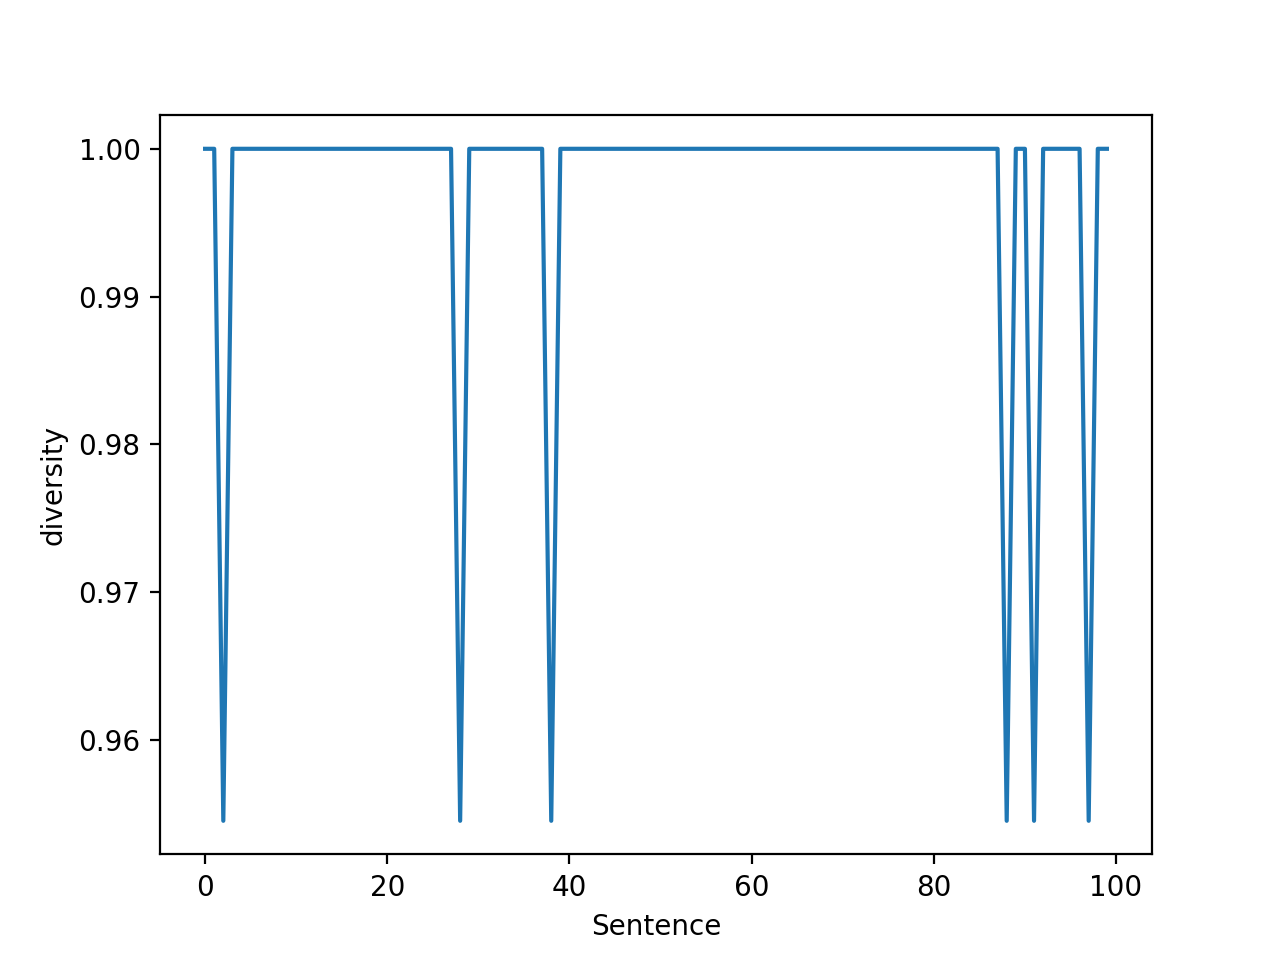
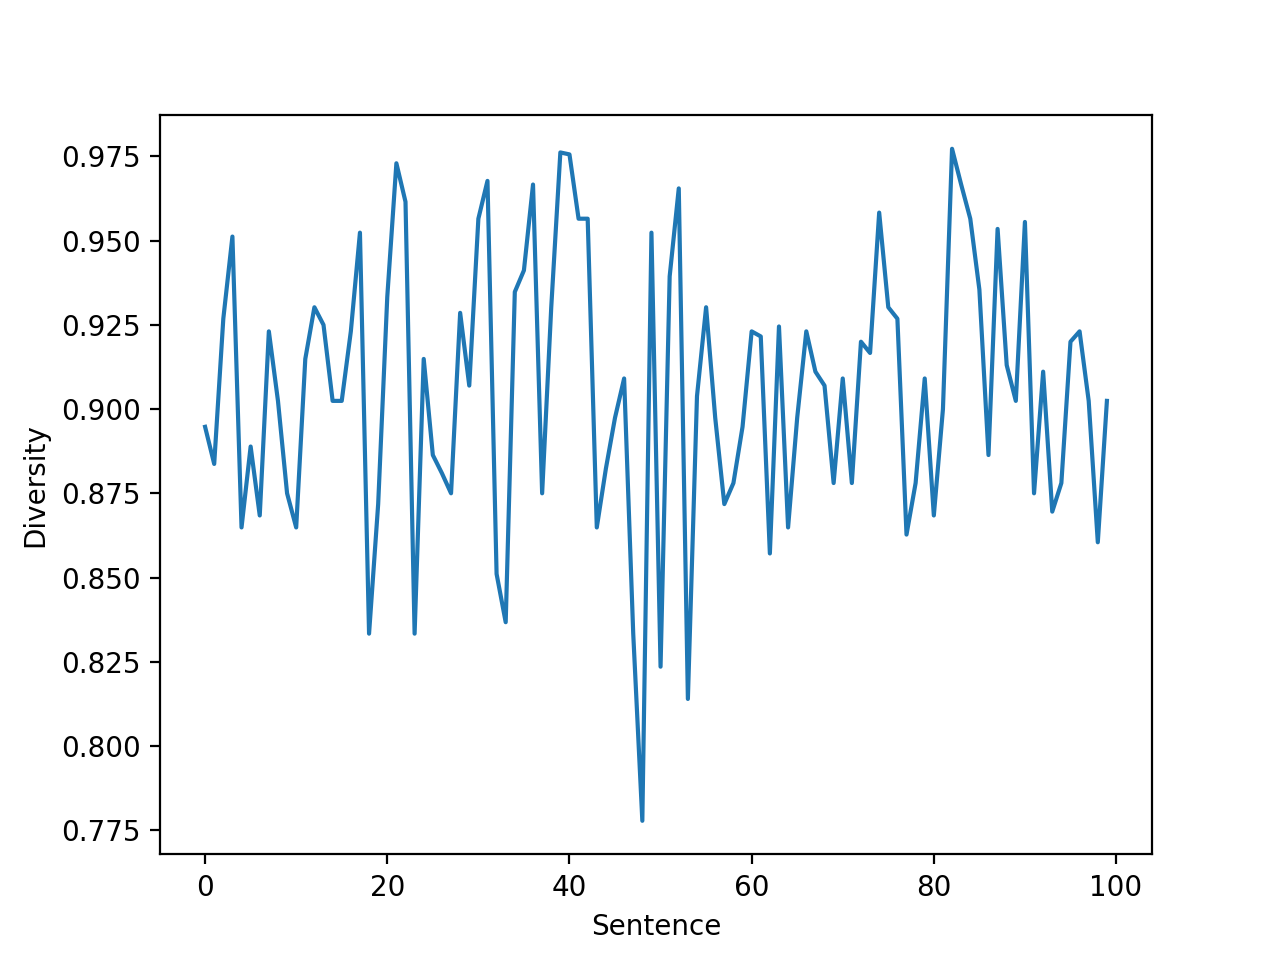
Added plots for diversity and novelty, fixed defn of metrics

diff --git a/plotting.py b/plotting.py
@@ -1,0 +1,17 @@
+novs = [0.9761904761904762, 0.9111111111111111, 0.9534883720930233, 0.926829268292683, 0.9512195121951219, 0.9375, 0.9, 0.9512195121951219, 0.8780487804878049, 0.85, 0.925, 0.9166666666666666, 0.9555555555555556, 0.9523809523809523, 0.9302325581395349, 0.9302325581395349, 0.9512195121951219, 0.9772727272727273, 0.925, 0.9534883720930233, 0.9347826086956522, 0.9736842105263158, 0.962962962962963, 0.8974358974358975, 0.9166666666666666, 0.9361702127659575, 0.8837209302325582, 0.9047619047619048, 0.9302325581395349, 0.9333333333333333, 0.9583333333333334, 0.9, 0.9, 0.9259259259259259, 0.9583333333333334, 0.9428571428571428, 0.967741935483871, 0.8780487804878049, 0.9318181818181819, 0.9523809523809523, 0.925, 0.9583333333333334, 0.9583333333333334, 0.868421052631579, 0.9259259259259259, 0.9523809523809523, 0.9574468085106383, 0.8378378378378378, 0.875, 0.9285714285714286, 0.9661016949152542, 0.9090909090909091, 0.9310344827586207,
+        0.9166666666666666, 0.9642857142857143, 0.9318181818181819, 0.9523809523809523, 0.9024390243902439, 0.9555555555555556, 0.9512195121951219, 0.8823529411764706, 0.9230769230769231, 0.9574468085106383, 0.9259259259259259, 0.868421052631579, 0.926829268292683, 0.925, 0.9361702127659575, 0.9090909090909091, 0.9782608695652174, 0.9347826086956522, 0.9555555555555556, 0.9622641509433962, 0.9607843137254902, 0.9591836734693877, 0.9782608695652174, 0.9285714285714286, 0.9074074074074074, 0.9069767441860466, 0.9117647058823529, 0.9523809523809523, 0.9285714285714286, 0.9545454545454546, 0.967741935483871, 0.9583333333333334, 0.9032258064516129, 0.8888888888888888, 0.9302325581395349, 0.8913043478260869, 0.9545454545454546, 0.9565217391304348, 0.9302325581395349, 0.9583333333333334, 0.8958333333333334, 0.9069767441860466, 0.9622641509433962, 0.9512195121951219, 0.9302325581395349, 0.8888888888888888, 0.8780487804878049]
+
+divs = [0.8947368421052632, 0.8837209302325582, 0.926829268292683, 0.9512195121951219, 0.8648648648648649, 0.8888888888888888, 0.868421052631579, 0.9230769230769231, 0.9024390243902439, 0.875, 0.8648648648648649, 0.9148936170212766, 0.9302325581395349, 0.925, 0.9024390243902439, 0.9024390243902439, 0.9230769230769231, 0.9523809523809523, 0.8333333333333334, 0.8717948717948718, 0.9333333333333333, 0.972972972972973, 0.9615384615384616, 0.8333333333333334, 0.9148936170212766, 0.8863636363636364, 0.8809523809523809, 0.875, 0.9285714285714286, 0.9069767441860466, 0.9565217391304348, 0.967741935483871, 0.851063829787234, 0.8367346938775511, 0.9347826086956522, 0.9411764705882353, 0.9666666666666667, 0.875, 0.9302325581395349, 0.9761904761904762, 0.975609756097561, 0.9565217391304348, 0.9565217391304348, 0.8648648648648649, 0.8823529411764706, 0.8974358974358975, 0.9090909090909091, 0.8333333333333334, 0.7777777777777778, 0.9523809523809523,
+        0.8235294117647058, 0.9393939393939394, 0.9655172413793104, 0.813953488372093, 0.9038461538461539, 0.9302325581395349, 0.8974358974358975, 0.8717948717948718, 0.8780487804878049, 0.8947368421052632, 0.9230769230769231, 0.9215686274509804, 0.8571428571428572, 0.9245283018867925, 0.8648648648648649, 0.8974358974358975, 0.9230769230769231, 0.9111111111111111, 0.9069767441860466, 0.8780487804878049, 0.9090909090909091, 0.8780487804878049, 0.92, 0.9166666666666666, 0.9583333333333334, 0.9302325581395349, 0.926829268292683, 0.8627450980392157, 0.8780487804878049, 0.9090909090909091, 0.868421052631579, 0.9, 0.9772727272727273, 0.9666666666666667, 0.9565217391304348, 0.935483870967742, 0.8863636363636364, 0.9534883720930233, 0.9130434782608696, 0.9024390243902439, 0.9555555555555556, 0.875, 0.9111111111111111, 0.8695652173913043, 0.8780487804878049, 0.92, 0.9230769230769231, 0.9024390243902439, 0.8604651162790697, 0.9024390243902439]
+
+from matplotlib import pyplot as plt
+
+plt.gca().set_color_cycle(['red', 'green'])
+
+plt.plot(range(len(novs)), novs)
+plt.plot(range(len(novs)), divs)
+
+
+plt.legend(['Novelties', 'Diversities'], loc='upper left')
+
+plt.show()

diff --git a/Test_Novelty.py b/Test_Novelty.py
@@ -15,22 +15,29 @@ def get_sentences(filename):
 
 
 if __name__ == '__main__':
-    # save these sentences and novelties to save computation time
-    corpus_sentences = get_sentences(DATA_FILE)  # 304222 sentences
-    print(len(corpus_sentences))
-    test_sentences = get_sentences(TEST_FILE) # 10785 sentences
-    # print(test_sentences[9]) # They picked him off three times and kept him out of the end zone in a 22 - 6 victory at Arizona in 2013 .
+    # # save these sentences and novelties to save computation time
+    # corpus_sentences = get_sentences(DATA_FILE)  # 304222 sentences
+    # # print(len(corpus_sentences))
+    # test_sentences = get_sentences(TEST_FILE) # 10785 sentences
+    # # print(test_sentences[9]) # They picked him off three times and kept him out of the end zone in a 22 - 6 victory at Arizona in 2013 .
 
-    novelties = list()
-    num_of_tests = 100
-    for sentence in test_sentences[:num_of_tests]:
-        novelties.append(novelty(sentence, corpus_sentences))
+    # novelties = list()
+    # num_of_tests = 100 # len(test_sentences)
+    # print("Example corpus sentence: ", corpus_sentences[0])
+    # print("Example test sentence: ", test_sentences[0])
+    # for sentence in test_sentences[:num_of_tests]:
+    #     novelties.append(novelty(sentence, corpus_sentences))
 
-    # Minimum novelty can be used to then find the sentence and potentially
-    # discover reasons causing novelty to decrease
-    print("Min novelty: {}".format(min(novelties)))
-    print("Novelties for {} sentences: \n {}".format(num_of_tests, novelties))
+    # # Minimum novelty can be used to then find the sentence and potentially
+    # # discover reasons causing novelty to decrease
+    # min_novelty = min(novelties)
+    # min_novelty_idx = novelties.index(min_novelty)
+    # print("Min novelty: {}".format(min_novelty))
+    # print("Sentence with min novelty: {}".format(test_sentences[min_novelty_idx]))
+    # print("Novelties for {} sentences: \n {}".format(num_of_tests, novelties))
     
+    novelties = [0.9761904761904762, 0.9111111111111111, 0.9534883720930233, 0.926829268292683, 0.9512195121951219, 0.9375, 0.9, 0.9512195121951219, 0.8780487804878049, 0.85, 0.925, 0.9166666666666666, 0.9555555555555556, 0.9523809523809523, 0.9302325581395349, 0.9302325581395349, 0.9512195121951219, 0.9772727272727273, 0.925, 0.9534883720930233, 0.9347826086956522, 0.9736842105263158, 0.962962962962963, 0.8974358974358975, 0.9166666666666666, 0.9361702127659575, 0.8837209302325582, 0.9047619047619048, 0.9302325581395349, 0.9333333333333333, 0.9583333333333334, 0.9, 0.9, 0.9259259259259259, 0.9583333333333334, 0.9428571428571428, 0.967741935483871, 0.8780487804878049, 0.9318181818181819, 0.9523809523809523, 0.925, 0.9583333333333334, 0.9583333333333334, 0.868421052631579, 0.9259259259259259, 0.9523809523809523, 0.9574468085106383, 0.8378378378378378, 0.875, 0.9285714285714286, 0.9661016949152542, 0.9090909090909091,
+                 0.9310344827586207, 0.9166666666666666, 0.9642857142857143, 0.9318181818181819, 0.9523809523809523, 0.9024390243902439, 0.9555555555555556, 0.9512195121951219, 0.8823529411764706, 0.9230769230769231, 0.9574468085106383, 0.9259259259259259, 0.868421052631579, 0.926829268292683, 0.925, 0.9361702127659575, 0.9090909090909091, 0.9782608695652174, 0.9347826086956522, 0.9555555555555556, 0.9622641509433962, 0.9607843137254902, 0.9591836734693877, 0.9782608695652174, 0.9285714285714286, 0.9074074074074074, 0.9069767441860466, 0.9117647058823529, 0.9523809523809523, 0.9285714285714286, 0.9545454545454546, 0.967741935483871, 0.9583333333333334, 0.9032258064516129, 0.8888888888888888, 0.9302325581395349, 0.8913043478260869, 0.9545454545454546, 0.9565217391304348, 0.9302325581395349, 0.9583333333333334, 0.8958333333333334, 0.9069767441860466, 0.9622641509433962, 0.9512195121951219, 0.9302325581395349, 0.8888888888888888, 0.8780487804878049]
 
     # plot novelties against sentence
     plt.plot(range(len(novelties)), novelties)

diff --git a/Test_Diversity.py b/Test_Diversity.py
@@ -7,12 +7,12 @@ TEST_FILE = 'data/test_emnlp.txt'
 def get_sentences(filename):
     """ Return sentences given a text file.
 
-        No need to re-tokenize 
+        Need to tokenize
     """
     with open(filename, 'r') as f:
         data = f.read()
-    # sentences = nltk.sent_tokenize(data)
-    return data
+    sentences = nltk.sent_tokenize(data)
+    return sentences
 
 
 if __name__ == '__main__':
@@ -26,13 +26,17 @@ if __name__ == '__main__':
 
     # Minimum diversity can be used to then find the sentence and potentially
     # discover reasons causing diversity to decrease
-    print("Min diversity: {}".format(min(diversities)))
-    print("Novelties for {} sentences: \n {}".format(num_of_tests, diversities))
+    min_diversity = min(diversities)
+    min_diversity_idx = diversities.index(min_diversity)
+    print("Min diversity: {}".format(min_diversity))
+    print("Sentence with min diversity: {}".format(
+        test_sentences[min_diversity_idx]))
+    print("Diversities for {} sentences: \n {}".format(num_of_tests, diversities))
     
 
     plt.plot(range(len(diversities)), diversities)
     plt.xlabel('Sentence')
-    plt.ylabel('diversity')
+    plt.ylabel('Diversity')
     plt.show()
 
 

diff --git a/metrics/Diversity.py b/metrics/Diversity.py
@@ -1,16 +1,16 @@
 import nltk
 from metrics.JaccardSimilarity import jaccard_similarity_words
 
-def diversity(sentence, document):
+def diversity(sentence, tokenized_sentences):
     """ Calculate the diversity of sentence compared with a given corpus/document.
     """
-    sentences = nltk.sent_tokenize(document)
+    # sentences = nltk.sent_tokenize(document)
     max_jaccard_sim = - float('inf')
 
-    for ref_sentence in sentences:
+    for ref_sentence in tokenized_sentences:
         if sentence != ref_sentence:
             jaccard_sim = jaccard_similarity_words(sentence, ref_sentence)
-        if jaccard_sim > max_jaccard_sim:
-            max_jaccard = jaccard_sim
+            if jaccard_sim > max_jaccard_sim:
+                max_jaccard = jaccard_sim
 
     return 1 - max_jaccard

diff --git a/metrics/Novelty.py b/metrics/Novelty.py
@@ -26,11 +26,11 @@ def unigram(tokens):
         model[word] = model[word]/float(sum(model.values()))
     return model
 
-def novelty(sentence, document):
+def novelty(sentence, tokenized_document):
     """ Calculate the novelty of sentence compared with a given corpus/document.
     """
     # sentences = nltk.sent_tokenize(document)
-    sentences = document
+    sentences = tokenized_document
     max_jaccard_sim = - float ('inf')
 
     for ref_sentence in sentences:
